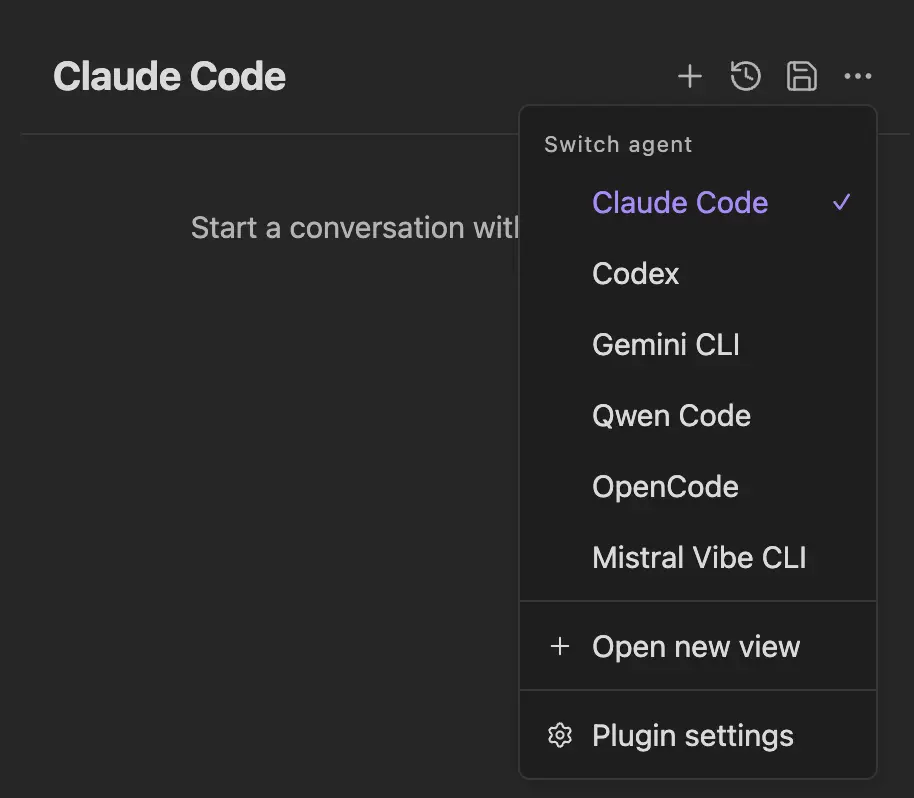
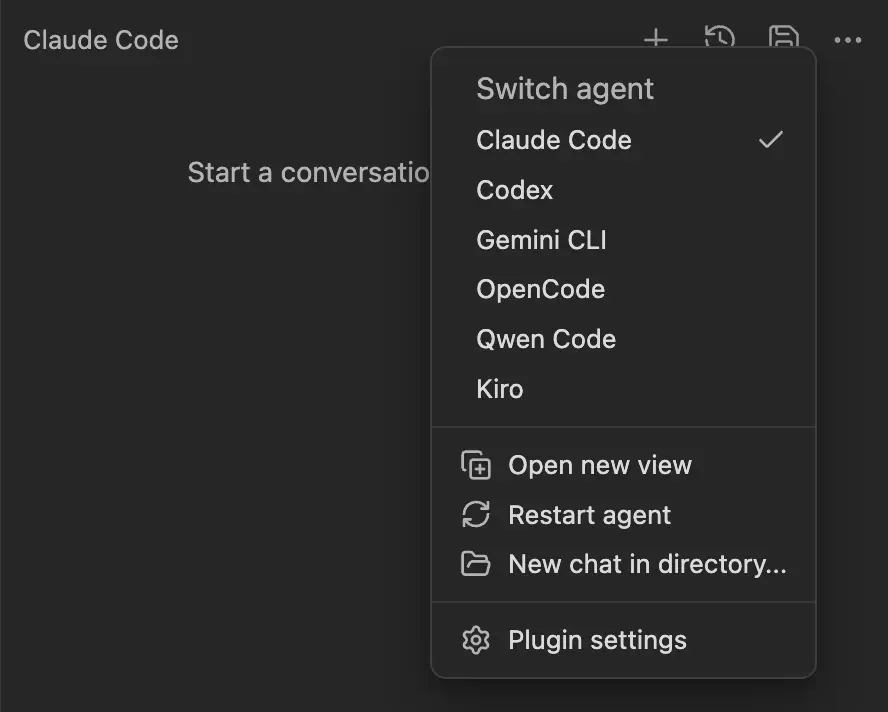
docs: update command name, switch agent description, and screenshots in basic usage

diff --git a/docs/usage/index.md b/docs/usage/index.md
@@ -10,7 +10,7 @@ You can open the Agent Client chat panel in two ways:
   <img src="/images/ribbon-icon.webp" alt="Ribbon Icon" />
 </p>
 
-- **Command Palette**: Open the command palette (`Cmd/Ctrl + P`) and search for **"Open agent chat"**
+- **Command Palette**: Open the command palette (`Cmd/Ctrl + P`) and search for **"Open chat view"**
 
 The chat panel opens in the right sidebar.
 
@@ -21,7 +21,7 @@ The chat panel opens in the right sidebar.
 3. Wait for the agent's response
 
 <p align="center">
-  <img src="/images/sending-messages.webp" alt="Sending Messages" />
+  <img src="/images/sending-messages.webp" alt="Sending Messages"  width="400" />
 </p>
 
 ## Sending Images and Files
@@ -48,8 +48,7 @@ See [Sending Images and Files](/usage/sending-images) for more details.
 To switch agents for the current view:
 
 1. Click the **⋮** (ellipsis) menu in the chat header
-2. Select **"Switch agent"**
-3. The agent switches immediately
+2. Under **"Switch agent"**, select the agent you want to use
 
 This is a one-time change for that view only.
 
